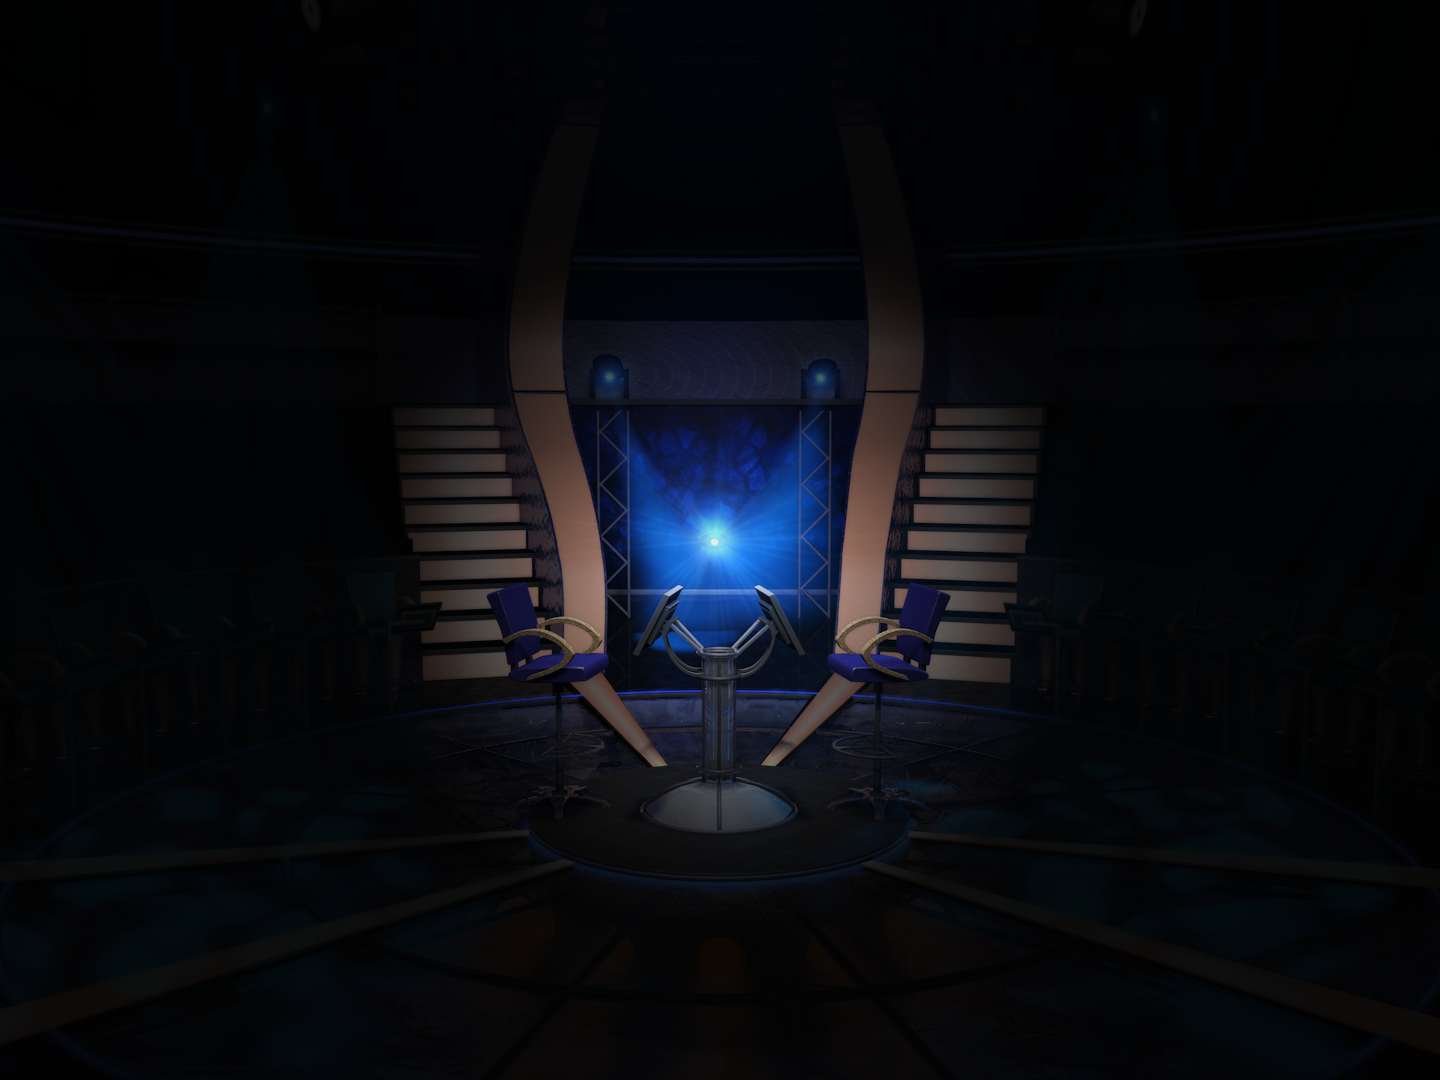
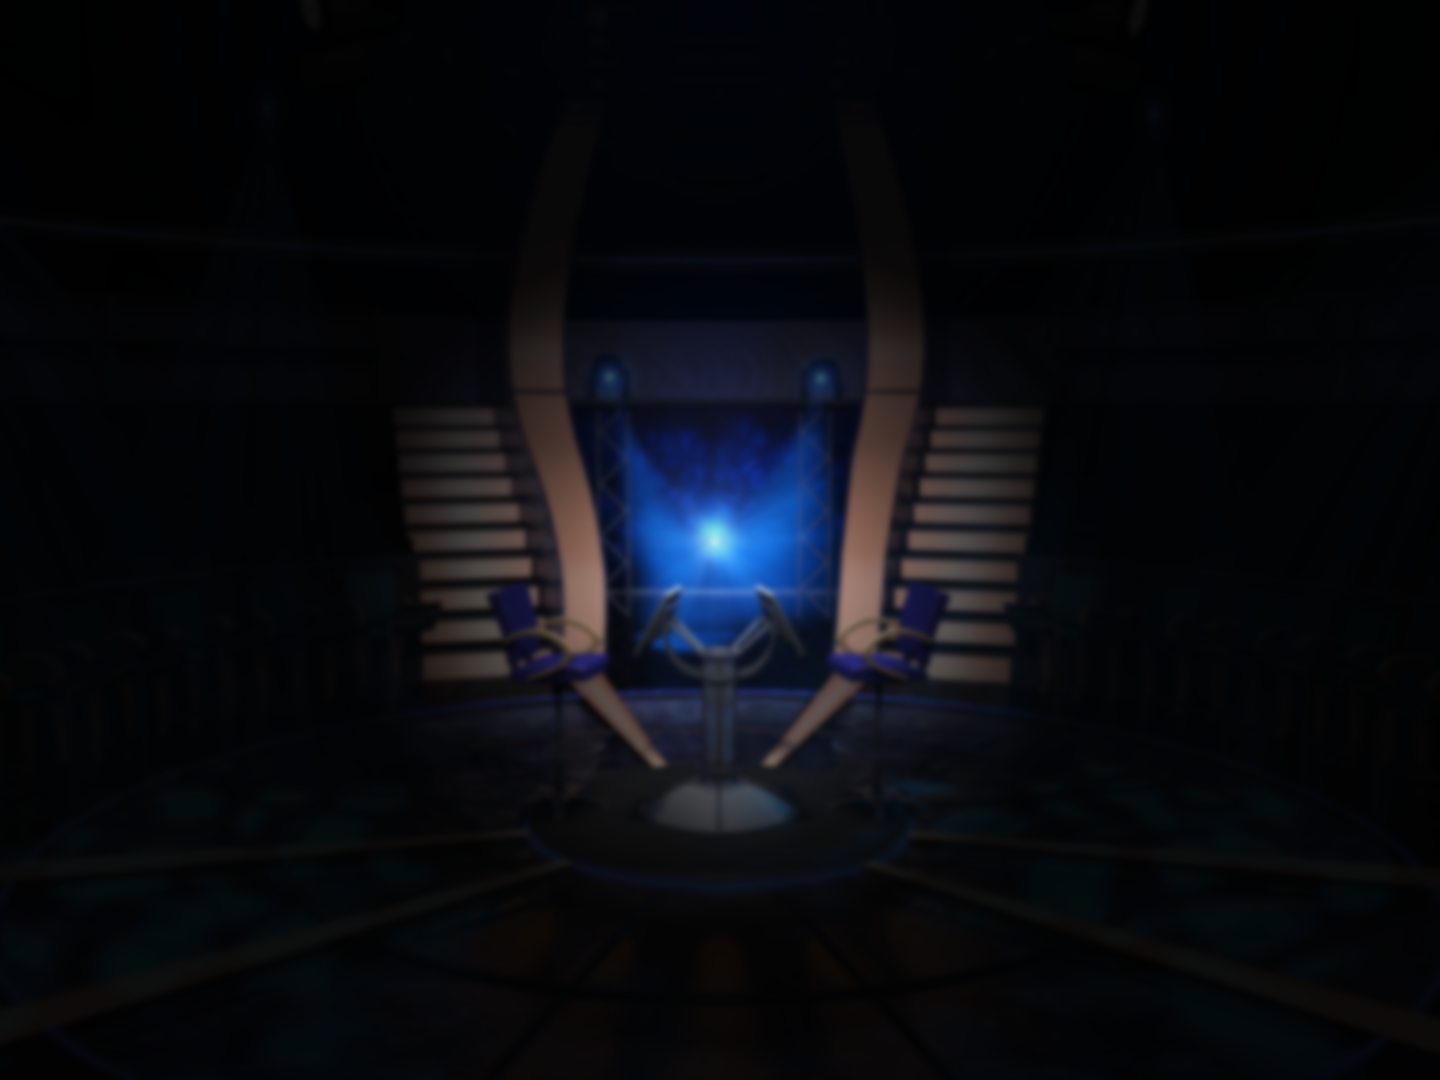
Allow audience to answer fastest finger questions

diff --git a/MultiMillionaire/wwwroot/js/game.js b/MultiMillionaire/wwwroot/js/game.js
@@ -1,7 +1,7 @@
 const game = {
     id: "",
-    setId: id => {
-        game.id = id;
+    setId: function (id) {
+        this.id = id;
         const gameIdElement = document.getElementById("gameId");
         if (gameIdElement) {
             gameIdElement.innerText = `Game ID: ${game.id}`;
@@ -9,23 +9,24 @@
     },
 
     join: {
-        host: async () => {
-            if (game.join.validateForm()) {
+        host: async function () {
+            if (this.validateForm()) {
                 await players.setName();
                 await connection.invoke("HostGame");
             }
         },
 
-        audience: async () => {
-            if (game.join.validateForm()) {
+        audience: async function () {
+            console.log(this);
+            if (this.validateForm()) {
                 await players.setName();
                 const gameId = document.getElementById("gameIdInput").value.toUpperCase();
                 await connection.invoke("JoinGameAudience", gameId);
             }
         },
 
-        spectator: async () => {
-            if (game.join.validateForm()) {
+        spectator: async function () {
+            if (this.validateForm()) {
                 const gameId = document.getElementById("gameIdInput").value.toUpperCase();
                 await connection.invoke("SpectateGame", gameId);
             }
@@ -59,8 +60,71 @@
 
             fetchQuestion: async () => await connection.invoke("FetchFastestFingerQuestion"),
 
-            onStart: answers => {
-                console.log(answers);
+            showAnswers: answers => {
+                setAnswerText("answerA", answers.A);
+                setAnswerText("answerB", answers.B);
+                setAnswerText("answerC", answers.C);
+                setAnswerText("answerD", answers.D);
+            },
+
+            onStart: function () {
+                console.log(this.input);
+                this.input.unlock();
+                this.startTime = Date.now();
+            },
+
+            submit: async function () {
+                if (this.input.cursor === 4) {
+                    const endTime = Date.now();
+                    this.input.lock();
+                    const duration = (endTime - this.startTime) / 1000.0;
+
+                    const element = document.getElementById("fastestFingerInput");
+                    const inputs = element.querySelectorAll(".fff-answer-input span");
+                    const answerOrder = Array.from(inputs).map(i => i.innerText);
+
+                    await connection.invoke("SubmitFastestFingerAnswer", answerOrder, duration);
+                }
+            },
+
+            input: {
+                cursor: 0,
+
+                unlock: () => {
+                    console.log("unlock");
+                    unlock("answerA");
+                    unlock("answerB");
+                    unlock("answerC");
+                    unlock("answerD");
+                    unlock("fffDeleteBtn");
+                    unlock("fffSubmitBtn");
+                },
+
+                lock: () => {
+                    lock("answerA");
+                    lock("answerB");
+                    lock("answerC");
+                    lock("answerD");
+                    lock("fffDeleteBtn");
+                    lock("fffSubmitBtn");
+                },
+
+                insert: function (letter) {
+                    if (this.cursor < 4) {
+                        setText(`fffInput${this.cursor++}`, letter);
+                        lock(`answer${letter}`);
+                    }
+                },
+
+                delete: function () {
+                    if (this.cursor > 0) {
+                        const id = `fffInput${--this.cursor}`;
+                        const element = document.getElementById(id);
+                        const letter = element.innerText;
+                        setText(id, "\u{2002}");
+                        unlock(`answer${letter}`);
+                    }
+                }
             }
         }
     }
@@ -70,4 +134,5 @@ connection.on("JoinSuccessful", game.join.joinSuccessful);
 connection.on("JoinGameIdNotFound", game.join.idNotFound);
 connection.on("GameEnded", game.ended);
 
-connection.on("StartFastestFinger", game.rounds.fastestFinger.onStart);
+connection.on("StartFastestFinger", game.rounds.fastestFinger.showAnswers);
+connection.on("EnableFastestFingerAnswering", game.rounds.fastestFinger.onStart);

diff --git a/MultiMillionaire/wwwroot/css/site.css b/MultiMillionaire/wwwroot/css/site.css
@@ -21,14 +21,6 @@ body {
     line-height: 1.3rem;
     overflow: auto;
     position: relative;
-}
-
-body::before {
-    content: "";
-    position: fixed;
-    z-index: -1;
-    width: 100%;
-    height: 100%;
 
     background-image: url(../images/background_3.png);
     background-repeat: no-repeat;
@@ -38,28 +30,34 @@ body::before {
     -webkit-transition: all 1s ease-in-out;
     -moz-transition: all 1s ease-in-out;
     transition: all 1s ease-in-out;
-
-    -webkit-filter: blur(3px);
-    -moz-filter: blur(3px);
-    -o-filter: blur(3px);
-    -ms-filter: blur(3px);
-    filter: blur(3px);
 }
 
-body.bg-0::before {
+body.bg-0 {
     background-image: url(../images/background_0.png);
 }
 
-body.bg-1::before {
+body.bg-1 {
     background-image: url(../images/background_1.png);
 }
 
-body.bg-2::before {
+body.bg-2 {
     background-image: url(../images/background_2.png);
 }
 
-body.bg-3::before {
+body.bg-3 {
     background-image: url(../images/background_3.png);
+}
+
+body.bg-red-0 {
+    background-image: url(../images/background_0_red.png);
+}
+
+body.bg-red-1 {
+    background-image: url(../images/background_1_red.png);
+}
+
+body.bg-red-2 {
+    background-image: url(../images/background_2_red.png);
 }
 
 .container-lg {

diff --git a/MultiMillionaire/wwwroot/js/display.js b/MultiMillionaire/wwwroot/js/display.js
@@ -25,12 +25,32 @@ function setText(id, text) {
     element.innerText = text;
 }
 
+function setAnswerText(id, text) {
+    const element = document.getElementById(id).querySelector(".answer-text");
+    element.style.visibility = "hidden";
+    element.innerText = text;
+    scaleToFit(element);
+    element.style.visibility = "visible";
+}
+
 function setOnClick(id, methodName) {
     const element = document.getElementById(id);
     element.onclick = async () => await connection.invoke(methodName);
+}
+
+function unlock(id) {
+    const element = document.getElementById(id);
+    element.classList.remove("disabled");
+}
+
+function lock(id) {
+    const element = document.getElementById(id);
+    element.classList.add("disabled");
 }
 
 connection.on("Show", show);
 connection.on("Hide", hide);
 connection.on("SetText", setText);
 connection.on("SetOnClick", setOnClick);
+connection.on("Lock", lock);
+connection.on("Unlock", unlock);

diff --git a/MultiMillionaire/wwwroot/js/style.js b/MultiMillionaire/wwwroot/js/style.js
@@ -5,15 +5,18 @@
     return element.offsetWidth - paddingX - borderX;
 }
 
+function scaleToFit(element) {
+    const elementWidth = getInnerWidth(element);
+    const parentWidth = getInnerWidth(element.parentElement);
+    const scale = Math.min((parentWidth - 50) / elementWidth, 1);
+    element.style.transform = 'scaleX(' + scale + ')';
+}
+
 function scaleAnswerTexts() {
     const elements = document.querySelectorAll('.answer-text');
-
     Array.from(elements).forEach(element => {
-        const elementWidth = getInnerWidth(element);
-        const parentWidth = getInnerWidth(element.parentElement);
-        const scale = Math.min((parentWidth - 50) / elementWidth, 1);
-        element.style.transform = 'scaleX(' + scale + ')';
-    })
+        scaleToFit(element);
+    });
 }
 
 window.addEventListener('resize', scaleAnswerTexts, true);

diff --git a/MultiMillionaire/wwwroot/css/fastest-finger.css b/MultiMillionaire/wwwroot/css/fastest-finger.css
@@ -66,3 +66,15 @@
     border-radius: .5rem;
     border: 3px solid transparent;
 }
+
+
+/* Answer input */
+
+.fff-answer-input {
+    font-size: 4rem;
+    line-height: 4rem;
+}
+
+.fff-answer-input span {
+    border-bottom: 2px solid var(--blue);
+}

diff --git a/MultiMillionaire/Hubs/MultiplayerGameHub.cs b/MultiMillionaire/Hubs/MultiplayerGameHub.cs
@@ -17,14 +17,23 @@ public interface IMultiplayerGameHub
     Task Hide(string elementId);
     Task SetText(string elementId, string text);
     Task SetOnClick(string elementId, string onclick);
+    Task Lock(string elementId);
+    Task Unlock(string elementId);
 
     Task StartFastestFinger(Dictionary<char, string> answers);
+    Task EnableFastestFingerAnswering();
 }
 
 public class MultiplayerGameHub : Hub<IMultiplayerGameHub>
 {
     private static List<MultiplayerGame> Games { get; } = new();
     private static List<User> Users { get; } = new();
+
+    // TEMP
+    public async Task JoinRandomAudience()
+    {
+        await JoinGameAudience(Games.First().Id);
+    }
 
     #region MiscellaneousMethods
 
@@ -133,15 +142,7 @@ public class MultiplayerGameHub : Hub<IMultiplayerGameHub>
         return new MultiplayerGame
         {
             Id = gameId,
-            Host = host,
-            Audience =
-            {
-                new User("abc")
-                {
-                    Name = "Test audience",
-                    Role = UserRole.Audience
-                }
-            }
+            Host = host
         };
     }
 
@@ -283,6 +284,11 @@ public class MultiplayerGameHub : Hub<IMultiplayerGameHub>
 
         await Clients.Group(game.Id).Hide("gameSetupPanels");
         await Clients.Group(game.Id).Show("fastestFingerPanels", "flex");
+
+        var players = ((FastestFingerFirst)game.Round!).GetPlayerIds();
+        await Clients.Clients(players).Show("fastestFingerInput");
+        await Clients.Clients(players).Show("fastestFingerBtns", "flex");
+
         await Clients.Caller.Hide("hostMenu");
         await Clients.Group(game.Id).Show("questionAndAnswers");
     }
@@ -315,7 +321,9 @@ public class MultiplayerGameHub : Hub<IMultiplayerGameHub>
             }
             else
             {
+                await Clients.Caller.Lock("fffNextBtn");
                 await Clients.Group(game.Id).StartFastestFinger(round.Question.Answers);
+                await Clients.Clients(round.GetPlayerIds()).EnableFastestFingerAnswering();
                 await round.StartRoundAndWait();
                 await StopFastestFinger();
             }
@@ -332,7 +340,7 @@ public class MultiplayerGameHub : Hub<IMultiplayerGameHub>
             if (round.InProgress)
                 round.SubmitAnswer(user!, answerOrder, time);
             else
-                await Clients.Caller.Message("The round has not started.");
+                await Clients.Caller.Message("The round is not currently in progress.");
         }
     }
 

diff --git a/MultiMillionaire/Models/FastestFingerFirst.cs b/MultiMillionaire/Models/FastestFingerFirst.cs
@@ -17,6 +17,11 @@ public class FastestFingerFirst : GameRound
         InProgress = false;
     }
 
+    public List<string> GetPlayerIds()
+    {
+        return Players.Select(u => u.ConnectionId).ToList();
+    }
+
     private void CheckAllPlayersAnswered()
     {
         if (Times.Count == Players.Count && GaveCorrectAnswer.Count == Players.Count) AllPlayersAnsweredToken.Cancel();
